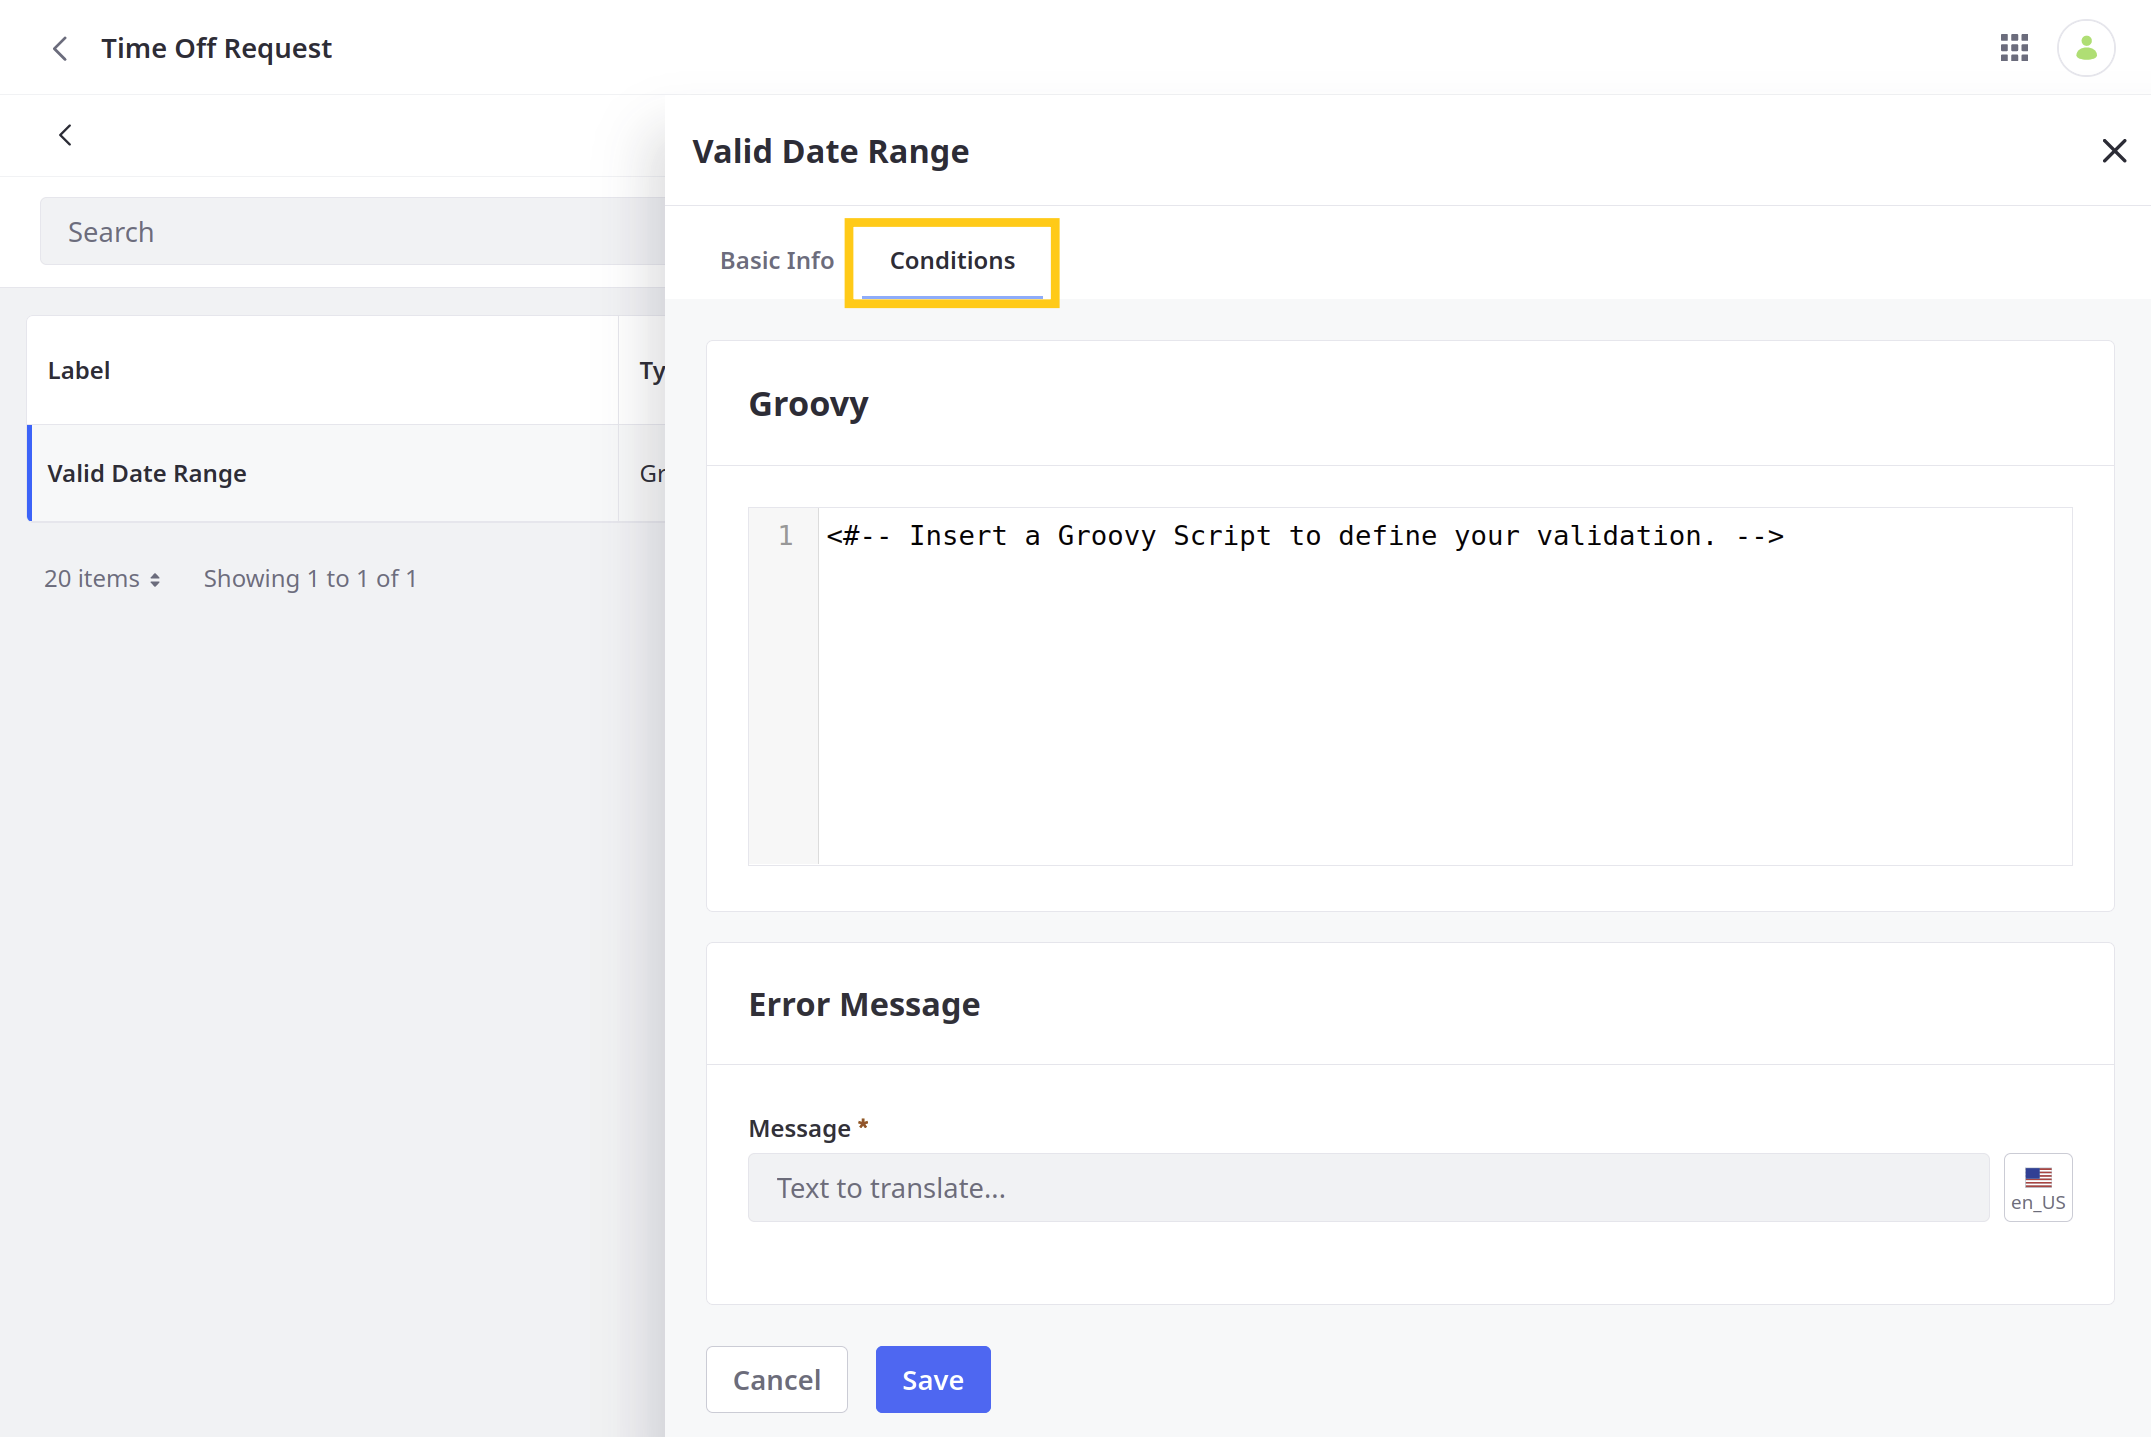
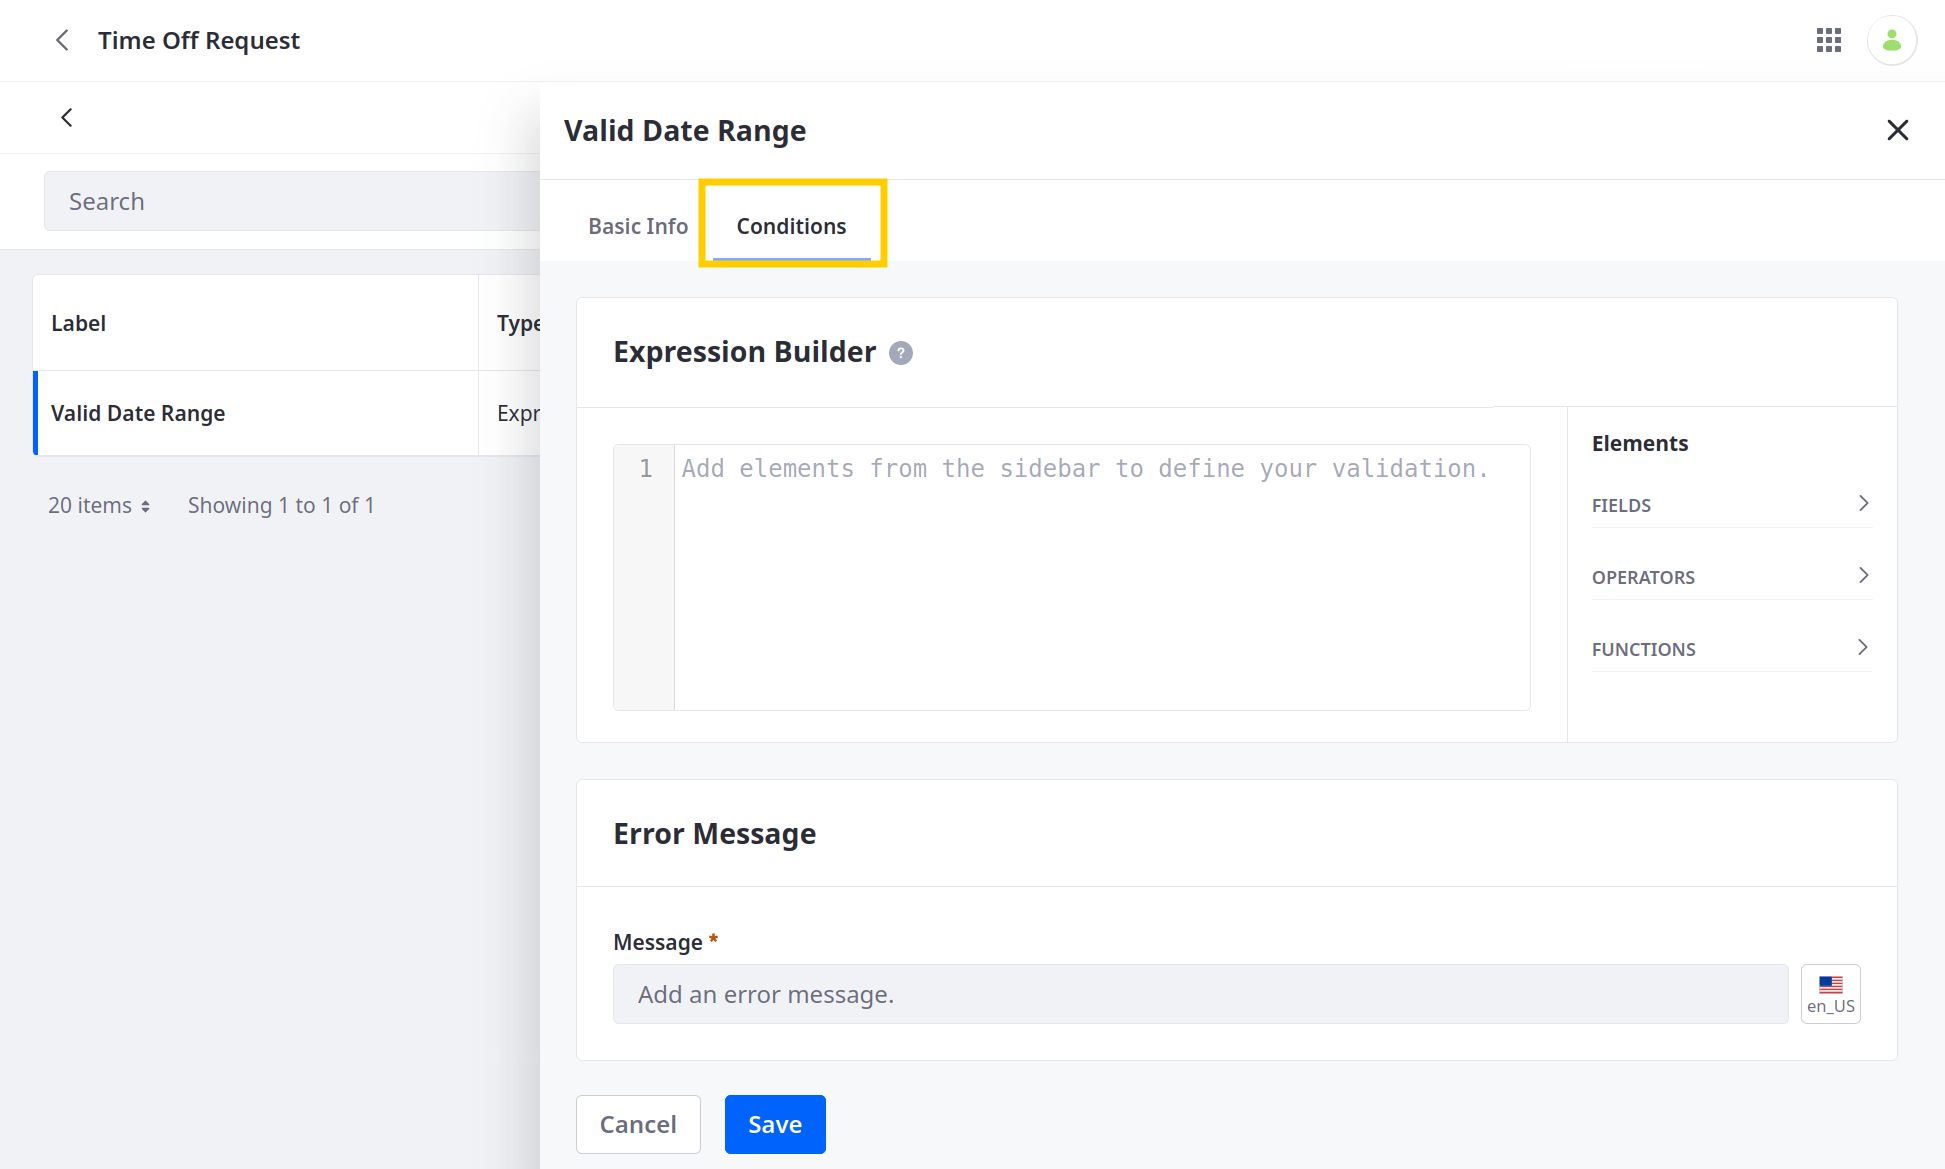
LRDOCS-10342 & LRDOCS-10430 updates images

diff --git a/docs/dxp/latest/en/building-applications/objects/creating-and-managing-objects/adding-custom-validations.md b/docs/dxp/latest/en/building-applications/objects/creating-and-managing-objects/adding-custom-validations.md
@@ -56,23 +56,23 @@ Once activated, the validation is run for all new Object entries.
 
 ## Using Groovy Validations
 
-{bdg-secondary}`Available Liferay DXP U24 and Portal GA24`
-
 The Groovy validation type supports all standard Groovy Script capabilities. However, when defining Groovy conditions, you must use the `invalidFields` variable. This variable should return `true` for invalid field values, while it should return `false` for valid field values. The error message is only displayed to users when `invalidFields` returns `true`.
 
 ```{note}
 The Groovy type does not currently have a check syntax validation.
 ```
 
-## Using Expression Builder Validations
+![Use the side panel to add field elements to your Groovy validations.](./adding-custom-validations/images/05.png)
 
-{bdg-secondary}`Available Liferay DXP U25 and Portal GA25`
+## Using Expression Builder Validations
 
 The Expression Builder type provides predefined fields, operators, and functions that you can access in the conditions side panel. Clicking an element adds it to the conditions editor. These functions return a Boolean value. For some, `true` indicates an valid entry, while for others `true` indicates an invalid entry. See [Expression Builder Validations Reference](./expression-builder-validations-reference.md) for a complete list of provided operators and functions.
 
 ```{important}
 Expression Builder validations can only be used with text, numeric, date, and boolean field types.
 ```
+
+![Use the side panel to add field, operator, and function elements to your validation.](./adding-custom-validations/images/06.png)
 
 ## Available Fields Reference
 
